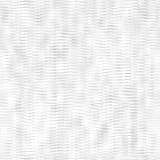
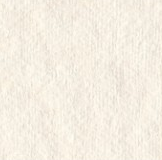
Show each paper as the sample photograph so the page matches the square.

diff --git a/shared/paper.ts b/shared/paper.ts
@@ -1,21 +1,23 @@
 export const PAPER_TEXTURES = [
-  { id: "speckle", label: "Speckled" },
-  { id: "laid", label: "Laid" },
-  { id: "coldpress", label: "Cold press" },
-  { id: "deckle", label: "Deckle" },
-  { id: "felt", label: "Felt" },
+  { id: "speckle", label: "Speckled", w: 168, h: 160 },
+  { id: "laid", label: "Laid", w: 162, h: 160 },
+  { id: "coldpress", label: "Cold press", w: 164, h: 160 },
+  { id: "deckle", label: "Deckle", w: 92, h: 160 },
+  { id: "felt", label: "Felt", w: 172, h: 160 },
 ] as const;
 
 export type PaperTextureId = (typeof PAPER_TEXTURES)[number]["id"];
 
 const IDS = new Set<string>(PAPER_TEXTURES.map((item) => item.id));
 
-/** Repeat size, in CSS pixels. Keeps the grain at the scale of the paper samples. */
-export const PAPER_TILE_PX = 160;
-
 export function normalizePaperTexture(raw?: string | null): PaperTextureId | "" {
   const value = String(raw || "").trim();
   return IDS.has(value) ? (value as PaperTextureId) : "";
+}
+
+export function paperTexture(id?: string | null) {
+  const texture = normalizePaperTexture(id);
+  return PAPER_TEXTURES.find((item) => item.id === texture) || null;
 }
 
 export function paperTextureUrl(id?: string | null): string {
@@ -23,28 +25,41 @@ export function paperTextureUrl(id?: string | null): string {
   return texture ? `/paper/${texture}.png` : "";
 }
 
-/** Solid color, with a grain map multiplied on top so the same paper can be recolored. */
+/** The photograph, repeated at its own pixel size, so a patch matches the sample. */
 export function paperSurfaceStyle(color: string, texture?: string | null): Record<string, string> {
+  const paper = paperTexture(texture);
   const url = paperTextureUrl(texture);
-  if (!url) return { backgroundColor: color };
-  const tile = `${PAPER_TILE_PX}px ${PAPER_TILE_PX}px`;
-  const grain = `url("${url}")`;
-  if (normalizePaperTexture(texture) !== "deckle") {
+  if (!paper || !url) return { backgroundColor: color };
+  const tile = `${paper.w}px ${paper.h}px`;
+  if (paper.id === "deckle") {
     return {
       backgroundColor: color,
-      backgroundImage: grain,
-      backgroundRepeat: "repeat",
-      backgroundSize: tile,
-      backgroundPosition: "0 0",
-      backgroundBlendMode: "multiply",
+      backgroundImage: `url("/paper/deckle-edge.png"), url("${url}")`,
+      backgroundRepeat: "repeat-y, repeat",
+      backgroundSize: `auto, ${tile}`,
+      backgroundPosition: "left top, 0 0",
+      backgroundBlendMode: "normal, normal",
     };
   }
   return {
     backgroundColor: color,
-    backgroundImage: `linear-gradient(90deg, #c4b496, #ffffff 24%), ${grain}`,
-    backgroundRepeat: "no-repeat, repeat",
-    backgroundSize: `100% 100%, ${tile}`,
-    backgroundPosition: "0 0, 0 0",
-    backgroundBlendMode: "multiply, multiply",
+    backgroundImage: `url("${url}")`,
+    backgroundRepeat: "repeat",
+    backgroundSize: tile,
+    backgroundPosition: "0 0",
+    backgroundBlendMode: "normal",
   };
+}
+
+/** Editor buttons show the whole sample, including the deckle edge. */
+export function paperSwatchStyle(texture?: string | null): Record<string, string> {
+  if (normalizePaperTexture(texture) === "deckle") {
+    return {
+      backgroundImage: 'url("/paper/deckle-full.png")',
+      backgroundRepeat: "no-repeat",
+      backgroundSize: "cover",
+      backgroundPosition: "center",
+    };
+  }
+  return { ...paperSurfaceStyle("#ffffff", texture), backgroundSize: "100% 100%" };
 }

diff --git a/client/src/flipbook/download-book-pdf.ts b/client/src/flipbook/download-book-pdf.ts
@@ -8,7 +8,7 @@ import {
   pageFill,
   publishedLabel,
 } from "@shared/page-layout";
-import { PAPER_TILE_PX, normalizePaperTexture, paperTextureUrl } from "@shared/paper";
+import { normalizePaperTexture, paperTextureUrl } from "@shared/paper";
 import { characterUrlFor, visibleStoryPages } from "@shared/reader-pages";
 import { frameClass, frameMarkup } from "@shared/text-frames";
 import type { PageElement, PageLayout, PublicBook } from "@shared/types";
@@ -21,28 +21,22 @@ const A4_LANDSCAPE: [number, number] = [841.89, 595.28];
 const A3_LANDSCAPE: [number, number] = [1190.55, 841.89];
 
 type Rendered = { png: Uint8Array; width: number; height: number };
-type PaperPaint = { id: string; image: HTMLImageElement | null };
+type PaperPaint = { id: string; image: HTMLImageElement | null; edge: HTMLImageElement | null };
 
 function paintPaper(ctx: CanvasRenderingContext2D, color: string, width: number, height: number, paper?: PaperPaint) {
   ctx.fillStyle = color;
   ctx.fillRect(0, 0, width, height);
   const image = paper?.image;
   if (!image) return;
-  ctx.save();
-  ctx.globalCompositeOperation = "multiply";
-  for (let y = 0; y < height; y += PAPER_TILE_PX) {
-    for (let x = 0; x < width; x += PAPER_TILE_PX) {
-      ctx.drawImage(image, x, y, PAPER_TILE_PX, PAPER_TILE_PX);
-    }
+  const tileW = image.naturalWidth || image.width;
+  const tileH = image.naturalHeight || image.height;
+  for (let y = 0; y < height; y += tileH) {
+    for (let x = 0; x < width; x += tileW) ctx.drawImage(image, x, y);
   }
-  if (paper?.id === "deckle") {
-    const shade = ctx.createLinearGradient(0, 0, width * 0.24, 0);
-    shade.addColorStop(0, "#c4b496");
-    shade.addColorStop(1, "#ffffff");
-    ctx.fillStyle = shade;
-    ctx.fillRect(0, 0, width * 0.24, height);
-  }
-  ctx.restore();
+  const edge = paper?.edge;
+  if (!edge) return;
+  const edgeH = edge.naturalHeight || edge.height;
+  for (let y = 0; y < height; y += edgeH) ctx.drawImage(edge, 0, y);
 }
 
 function downloadBlob(bytes: Uint8Array, filename: string) {
@@ -393,6 +387,7 @@ export async function downloadBookPdf(source: PublicBook, kind: BookPdfKind) {
   const paperPaint: PaperPaint = {
     id: textureId,
     image: textureId ? await loadHtmlImage(paperTextureUrl(textureId)).catch(() => null) : null,
+    edge: textureId === "deckle" ? await loadHtmlImage("/paper/deckle-edge.png").catch(() => null) : null,
   };
   const cover = await renderLayout(book.coverLayout, book, "cover", false, undefined, paperPaint);
   const back = hasLayout(book.backCoverLayout) ? await renderLayout(book.backCoverLayout, book, "cover", "back", legal, paperPaint) : null;

diff --git a/client/src/flipbook/reader.js b/client/src/flipbook/reader.js
@@ -2,7 +2,7 @@ import css from './reader.css?raw';
 import runtime from './reader-runtime.js?raw';
 import {escapeHTML as esc, safeURL} from './layout.js';
 import {elementTextHtml, publishedLabel} from '@shared/page-layout';
-import {PAPER_TILE_PX, normalizePaperTexture, paperTextureUrl} from '@shared/paper';
+import {normalizePaperTexture, paperTexture, paperTextureUrl} from '@shared/paper';
 import {DEFAULT_FRAME_COLOR, frameClass, frameMarkup} from '@shared/text-frames';
 import {fontStack, fontsUsed, googleFontsHref} from '@shared/book-fonts';
 import {paletteById} from '@shared/palettes';
@@ -181,9 +181,11 @@ export function createReaderDocument(book,{libraryUrl='/',baseUrl=location.href,
   const skipCover=storyPages.length !== (book.pages||[]).length;
   const paper=pageFill({background:book.pageBackground},book);
   const texture=normalizePaperTexture(book.pageTexture);
-  const textureUrl=texture?esc(safeURL(paperTextureUrl(texture),baseUrl)):'';
+  const textureMeta=paperTexture(texture);
+  const textureUrl=textureMeta?esc(safeURL(paperTextureUrl(textureMeta.id),baseUrl)):'';
+  const edgeUrl=textureMeta?.id==='deckle'?esc(safeURL('/paper/deckle-edge.png',baseUrl)):'';
   const paperAttr=texture?` data-paper="${texture}"`:'';
-  const paperStyle=textureUrl?`;--paper-texture:url('${textureUrl}');--paper-tile:${PAPER_TILE_PX}px`:'';
+  const paperStyle=textureUrl?`;--paper-texture:url('${textureUrl}');--paper-w:${textureMeta.w}px;--paper-h:${textureMeta.h}px${edgeUrl?`;--paper-edge:url('${edgeUrl}')`:''}`:'';
   const cover=frontCoverHtml(book,baseUrl,libraryUrl);
   const articles=cover+titlePageHtml(book,baseUrl,libraryUrl,!cover)+storyPages.map((p,i)=>{
     const zones=`<button class="zone" data-dir="-1" aria-label="Previous page"></button><button class="zone" data-dir="1" aria-label="Next page"></button>`;

diff --git a/shared/paper.test.ts b/shared/paper.test.ts
@@ -1,6 +1,6 @@
 import assert from "node:assert/strict";
 import test from "node:test";
-import { PAPER_TILE_PX, normalizePaperTexture, paperSurfaceStyle, paperTextureUrl } from "./paper";
+import { normalizePaperTexture, paperSurfaceStyle, paperSwatchStyle, paperTexture, paperTextureUrl } from "./paper";
 
 test("normalizePaperTexture keeps the five papers", () => {
   assert.equal(normalizePaperTexture("speckle"), "speckle");
@@ -12,15 +12,18 @@ test("normalizePaperTexture keeps the five papers", () => {
   assert.equal(normalizePaperTexture(""), "");
 });
 
-test("paperSurfaceStyle is a flat color until a texture is chosen", () => {
+test("paperSurfaceStyle shows the sample photograph at its own size", () => {
   assert.deepEqual(paperSurfaceStyle("#efdda6", ""), { backgroundColor: "#efdda6" });
   const laid = paperSurfaceStyle("#112233", "laid");
+  const tile = paperTexture("laid");
   assert.equal(laid.backgroundColor, "#112233");
   assert.equal(laid.backgroundImage, `url("${paperTextureUrl("laid")}")`);
-  assert.equal(laid.backgroundBlendMode, "multiply");
+  assert.equal(laid.backgroundBlendMode, "normal");
   assert.equal(laid.backgroundRepeat, "repeat");
-  assert.equal(laid.backgroundSize, `${PAPER_TILE_PX}px ${PAPER_TILE_PX}px`);
+  assert.equal(laid.backgroundSize, `${tile?.w}px ${tile?.h}px`);
   const deckle = paperSurfaceStyle("#112233", "deckle");
-  assert.match(deckle.backgroundImage, /^linear-gradient/);
-  assert.equal(deckle.backgroundSize, `100% 100%, ${PAPER_TILE_PX}px ${PAPER_TILE_PX}px`);
+  assert.match(String(deckle.backgroundImage), /deckle-edge\.png/);
+  assert.equal(deckle.backgroundRepeat, "repeat-y, repeat");
+  assert.equal(deckle.backgroundBlendMode, "normal, normal");
+  assert.match(paperSwatchStyle("deckle").backgroundImage || "", /deckle-full\.png/);
 });

diff --git a/client/src/flipbook/reader.css b/client/src/flipbook/reader.css
@@ -1418,9 +1418,9 @@ html[data-paper] .mobile-under,
 html[data-paper] .page-curl-peek{
   background-image:var(--paper-texture)!important;
   background-repeat:repeat!important;
-  background-size:var(--paper-tile,160px) var(--paper-tile,160px)!important;
+  background-size:var(--paper-w,168px) var(--paper-h,160px)!important;
   background-position:0 0!important;
-  background-blend-mode:multiply!important;
+  background-blend-mode:normal!important;
 }
 html[data-paper="deckle"] .page:not(.front-cover),
 html[data-paper="deckle"] .leaf-sheet,
@@ -1433,9 +1433,10 @@ html[data-paper="deckle"] .fade-from,
 html[data-paper="deckle"] .fixed-half,
 html[data-paper="deckle"] .mobile-under,
 html[data-paper="deckle"] .page-curl-peek{
-  background-image:linear-gradient(90deg,#c4b496,#ffffff 24%),var(--paper-texture)!important;
-  background-repeat:no-repeat,repeat!important;
-  background-size:100% 100%,var(--paper-tile,160px) var(--paper-tile,160px)!important;
-  background-blend-mode:multiply,multiply!important;
+  background-image:var(--paper-edge),var(--paper-texture)!important;
+  background-repeat:repeat-y,repeat!important;
+  background-size:auto,var(--paper-w,92px) var(--paper-h,160px)!important;
+  background-position:left top,0 0!important;
+  background-blend-mode:normal,normal!important;
 }
 

diff --git a/client/src/pages/PageEditor.tsx b/client/src/pages/PageEditor.tsx
@@ -23,7 +23,7 @@ import {
   publishedLabel,
   syncBookFromLayouts,
 } from "@shared/page-layout";
-import { PAPER_TEXTURES, paperSurfaceStyle } from "@shared/paper";
+import { PAPER_TEXTURES, paperSurfaceStyle, paperSwatchStyle } from "@shared/paper";
 import { characterUrlFor, visibleStoryPages } from "@shared/reader-pages";
 import { DEFAULT_FRAME_COLOR, TEXT_FRAMES, frameClass, frameMarkup, normalizeFrame } from "@shared/text-frames";
 import type { PageElement, PageLayout, PublicBook, TextAlign } from "@shared/types";
@@ -822,7 +822,7 @@ export default function PageEditorPage() {
                 aria-pressed={book.pageTexture === texture.id}
                 aria-label={texture.label}
                 title={texture.label}
-                style={{ ...paperSurfaceStyle(fill, texture.id), backgroundSize: "100% 100%" }}
+                style={paperSwatchStyle(texture.id)}
                 onClick={() => persist({ ...book, pageTexture: texture.id })}
               />
             ))}
